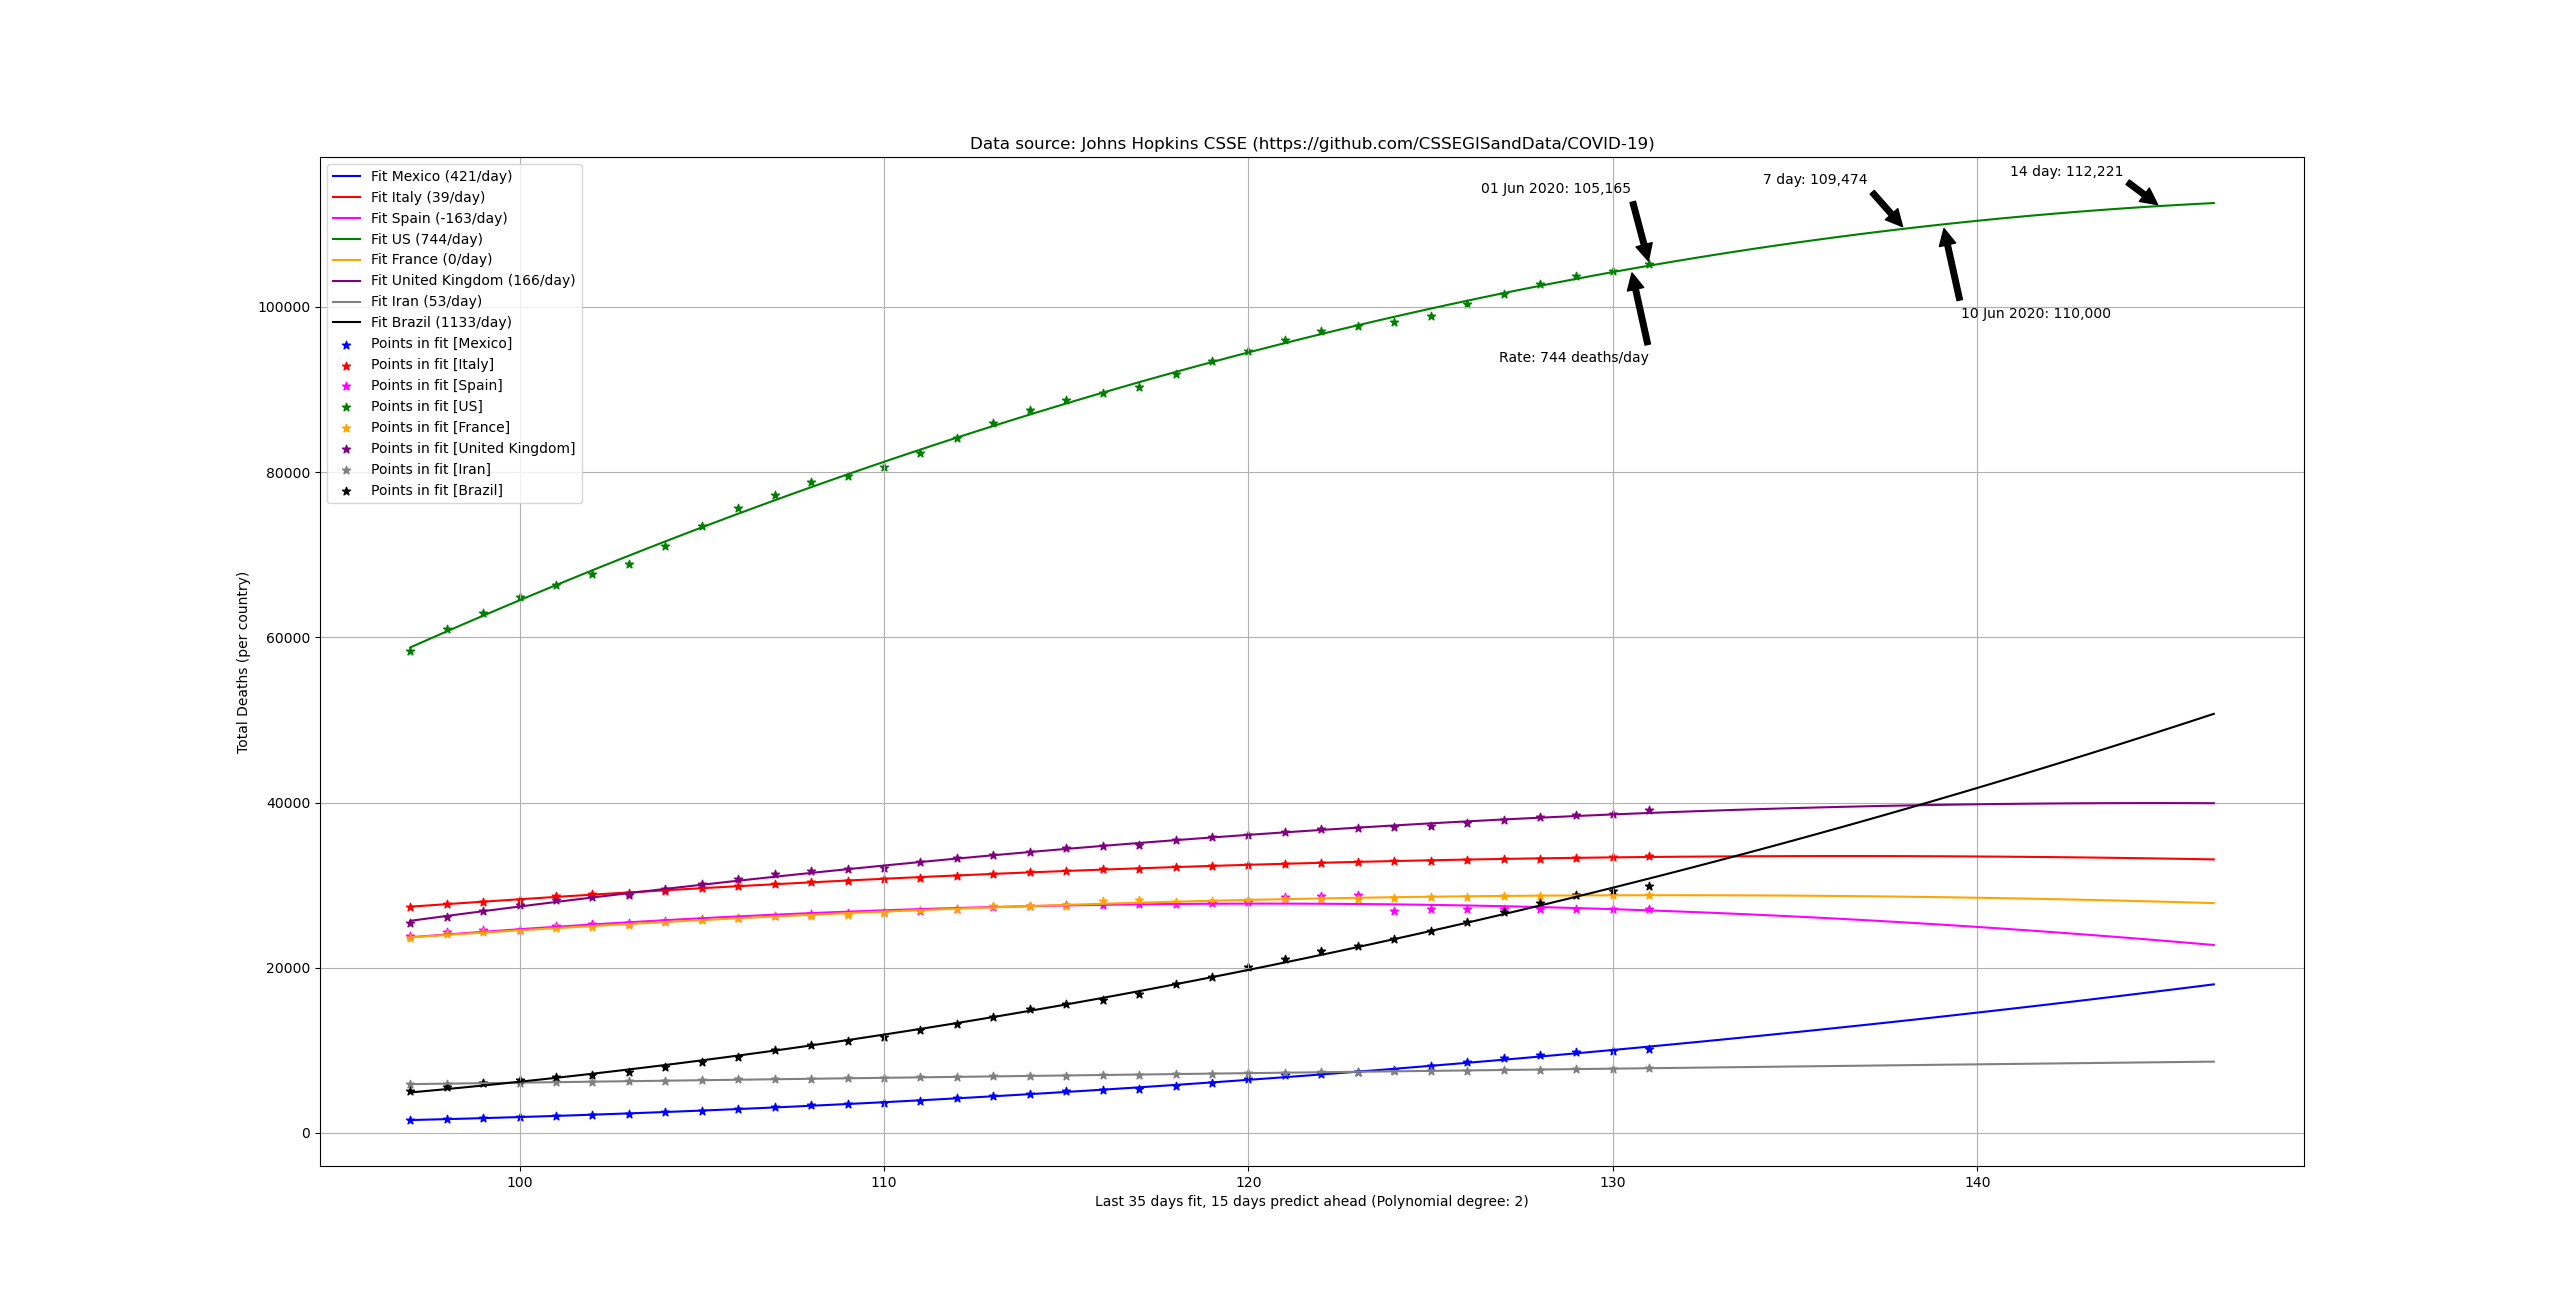
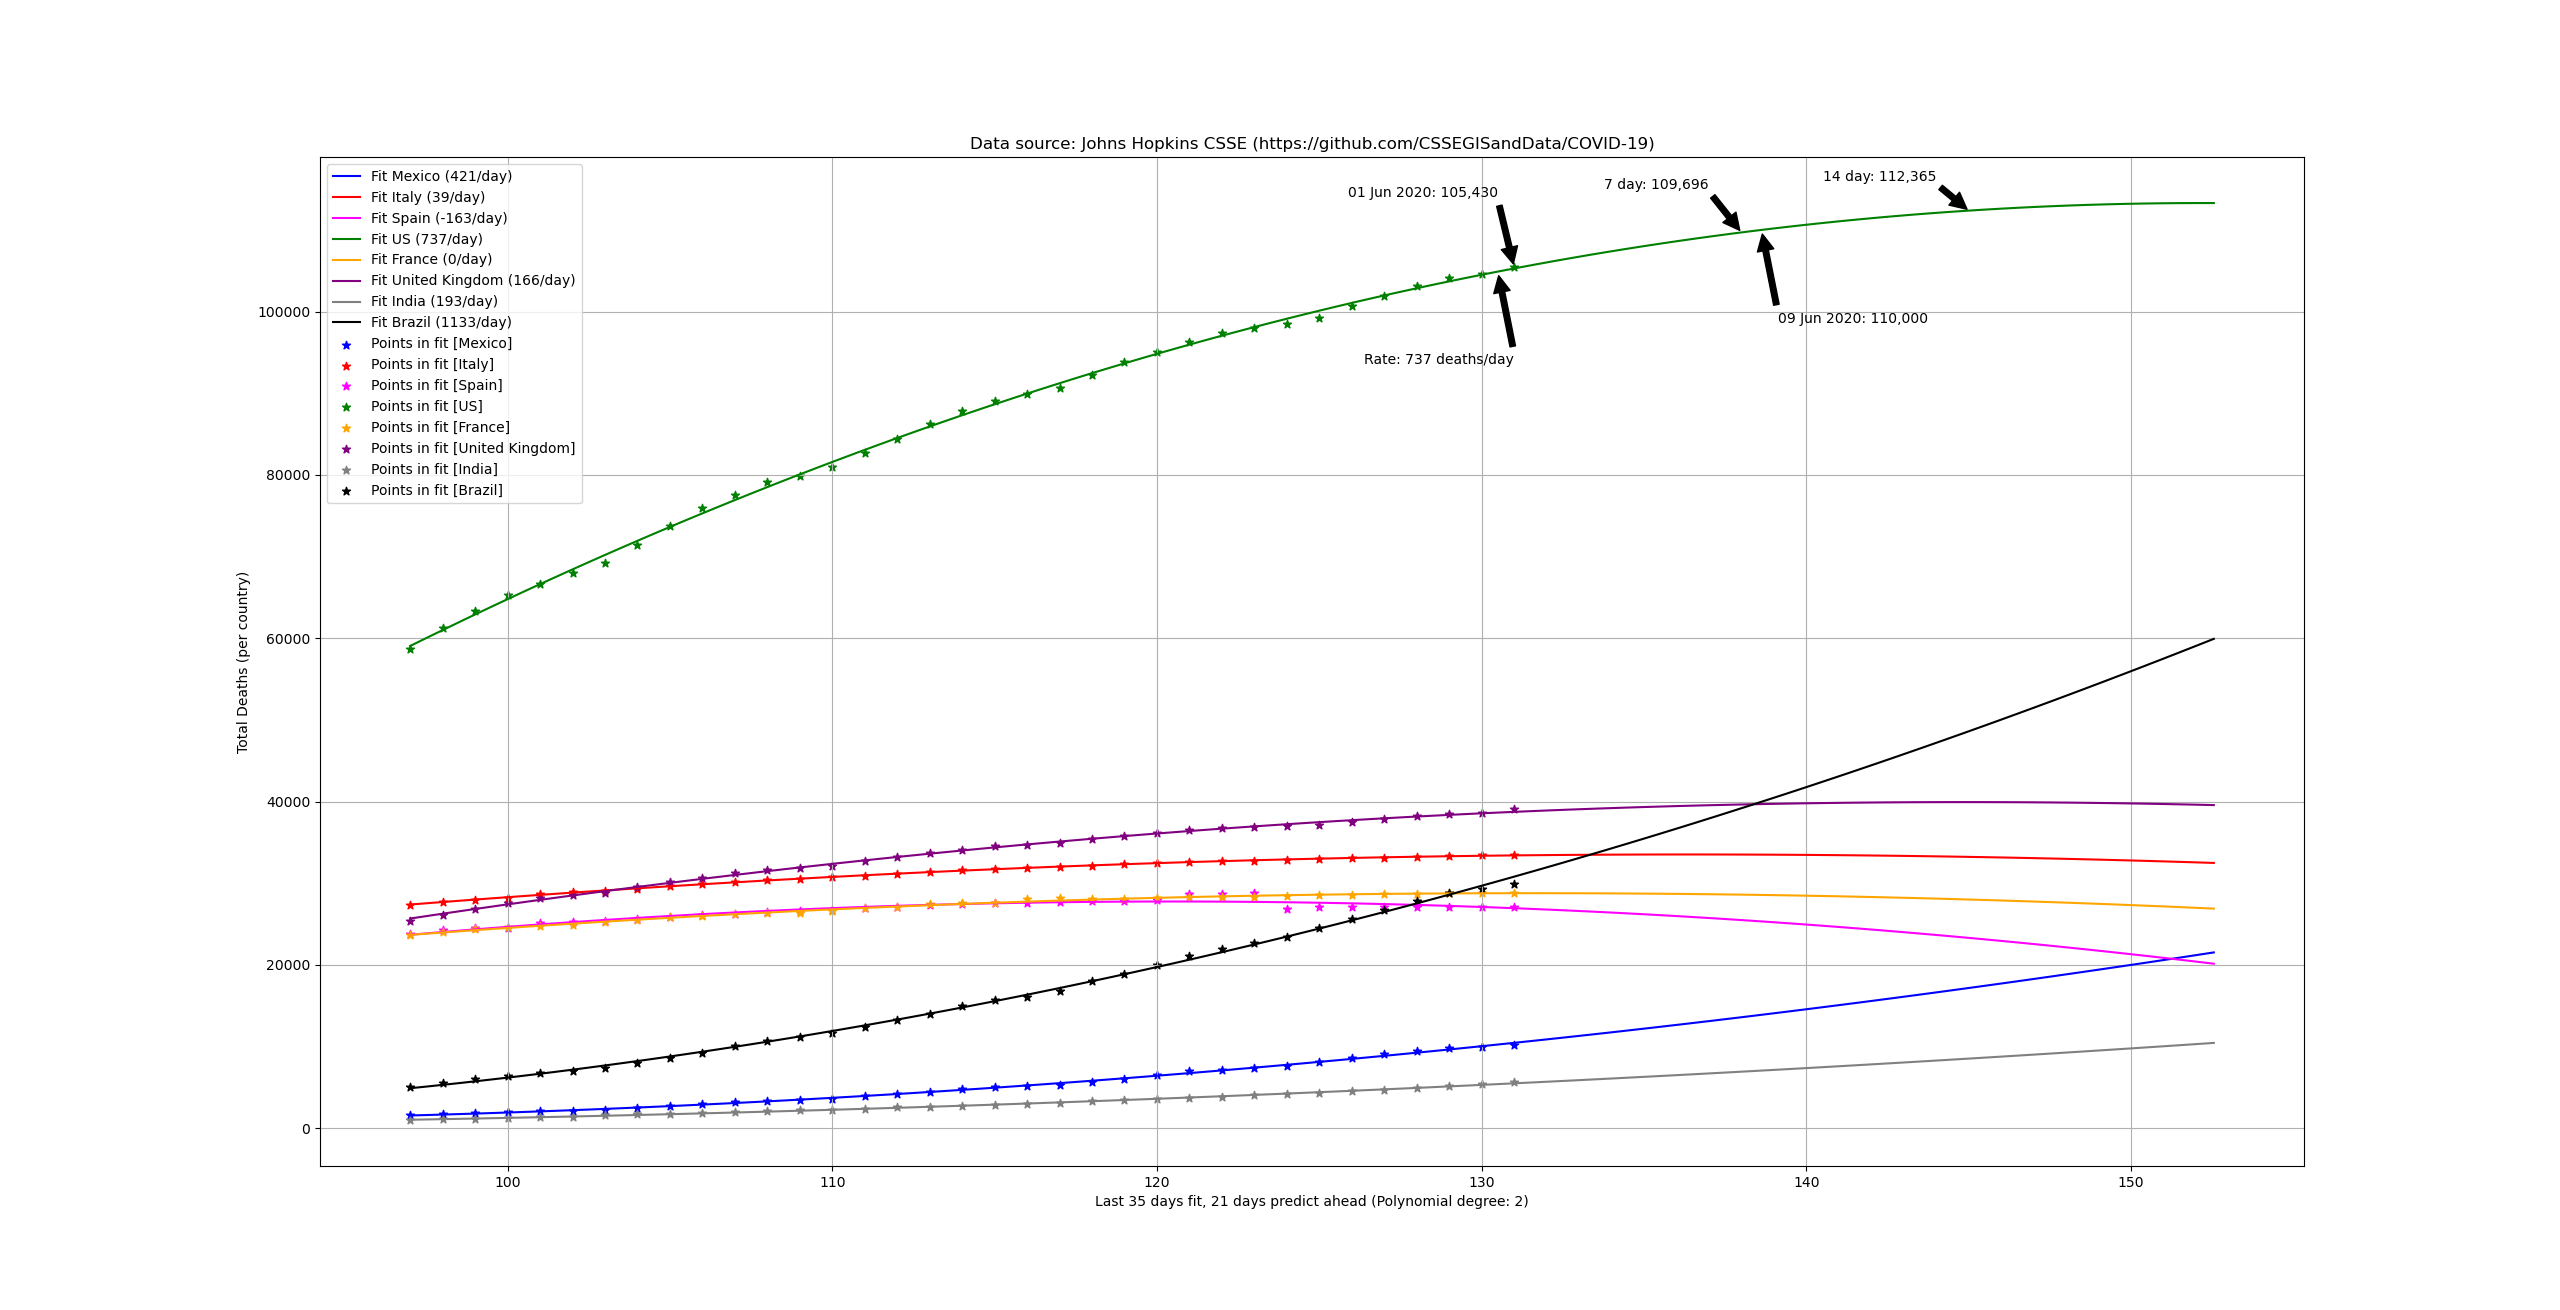
JUne 14 update. Johns Hopkins back corrected some of their data, so I took the opportunity to go back and regenerated about 2 weeks worth of graphs.  In some sense that is less fair because the original plots were the best data at the time, but I don't think anyone is actually looking at any of this

diff --git a/README.md b/README.md
@@ -3,18 +3,29 @@ plots: https://github.com/clolsonus/covid-19/blob/master/FAQ.md
 
 # Daily plots
 
+## June 14, 2020
+
+Brazil is still over 1000 deaths/day, 50k mark in 6 days, 60k mark in
+15 days.  USA pace continues to diminish slowly, now just under
+600/day.  USA 120k mark bumped up another day to June 23 (continuing
+to suggest the USA pace is flattening.)  Mexico will hit the 20k mark
+in 4 days.
+
+![poly](figures/20200614.png?raw=true "14 June, 2020")
+
 ## June 13, 2020
 
 Mexico will hit the 20k death mark in 5 days.  Brazil is still over
-1000 deaths / day.  Usa pace continues to diminish, but very slowly.
-120k mark pushed out a day to June 21.
+1000 deaths / day.  USA pace continues to diminish, but rate is
+slowing.  120k mark bumped down again to June 24.
 
 ![poly](figures/20200613.png?raw=true "13 June, 2020")
 
 ## June 12, 2020
 
 Brazil officially passes the UK and is now it 2nd place overall for
-total deaths.  STill on a pace of over 1000 deaths per day.
+total deaths.  STill on a pace of over 1000 deaths per day.  USA's
+120k prediction bumped up to June 25.
 
 ![poly](figures/20200612.png?raw=true "12 June, 2020")
 
@@ -28,7 +39,7 @@ overtake the UK for 2nd place in total deaths today.
 
 ## June 10, 2020
 
-Overall trends and predictions unchanged.
+Overall trends unchanged.  USA reaches the 128k mark by June 28.
 
 ![poly](figures/20200610.png?raw=true "10 June, 2020")
 
@@ -36,7 +47,7 @@ Overall trends and predictions unchanged.
 
 Brazil is still running over 1000 deaths per day and is on pace to hit
 the 40k mark in 2 days, overtakes the UK for 2nd place overall on
-about June 13.  USA on pace to hit 120k around June 20.
+about June 13.  USA on pace to hit 120k in about 15 days.
 
 ![poly](figures/20200609.png?raw=true "9 June, 2020")
 
@@ -48,33 +59,23 @@ Brazil is still on pace to overtake the UK in about 5 days.
 
 ## June 7, 2020
 
-The USA officially passes the 110k mark today.  The 120k mark is
-coming in about 14 days, on or around June 21.  Mexico and Brazil are
-still accelerating upwards.
+The 120k mark is still out beyond the 14-day lookahead.  Mexico and
+Brazil are still accelerating upwards.
 
 ![poly](figures/20200607.png?raw=true "7 June, 2020")
 
 ## June 6, 2020
 
-I shortened the number of fit days from 35->21 to be able to track
-current trends better and not be biased as much by older data.  (There
-are tradeoffs of course.)
-
-The USA will officially pass the 110k mark early tomorrow. (We are
-likely already way past this mark due to the lag in reporting and
-confirming.)  The 120k mark comes into view for the US somewhere
-around June 22.  Brozil's data for yesterday was corrected and is on
-pace to pass the UK in about 6 days.  Mexico and Brazil are still
-accelerating upwards.
+The USA officially passed the 110k mark today in back-corrected data.
+Brozil's data for yesterday was corrected and is on pace to pass the
+UK in about 6 days.  Mexico and Brazil are still accelerating upwards.
 
 ![poly](figures/20200606.png?raw=true "6 June, 2020")
 
 ## June 5, 2020
 
-Brazil apparently did not report any deaths today, so there is noise
-in the data which is why we fit a function to get the longer term
-trends.  USA will probably pass 110k late June 6 or early June 7
-despite the fit line putting this mark at June 8.
+Brazil's data was back corrected later so this comment has been
+updated.  USA will probably pass 110k late June 6 or early June 7.
 
 ![poly](figures/20200605.png?raw=true "5 June, 2020")
 
